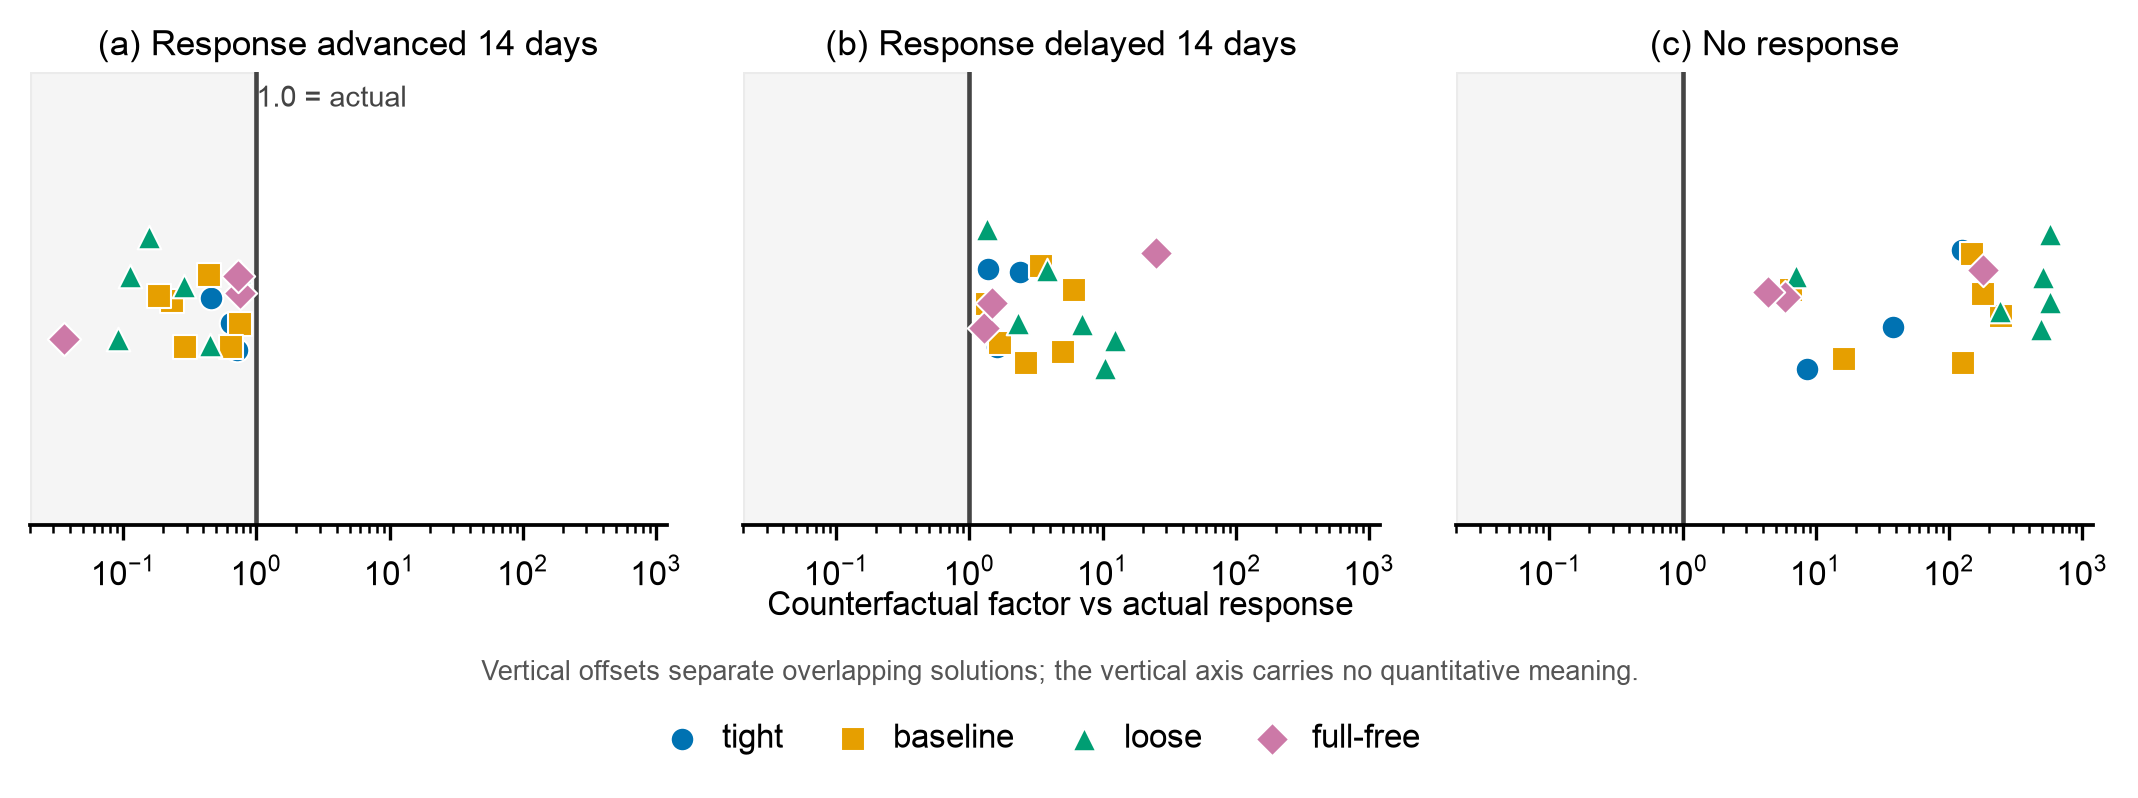
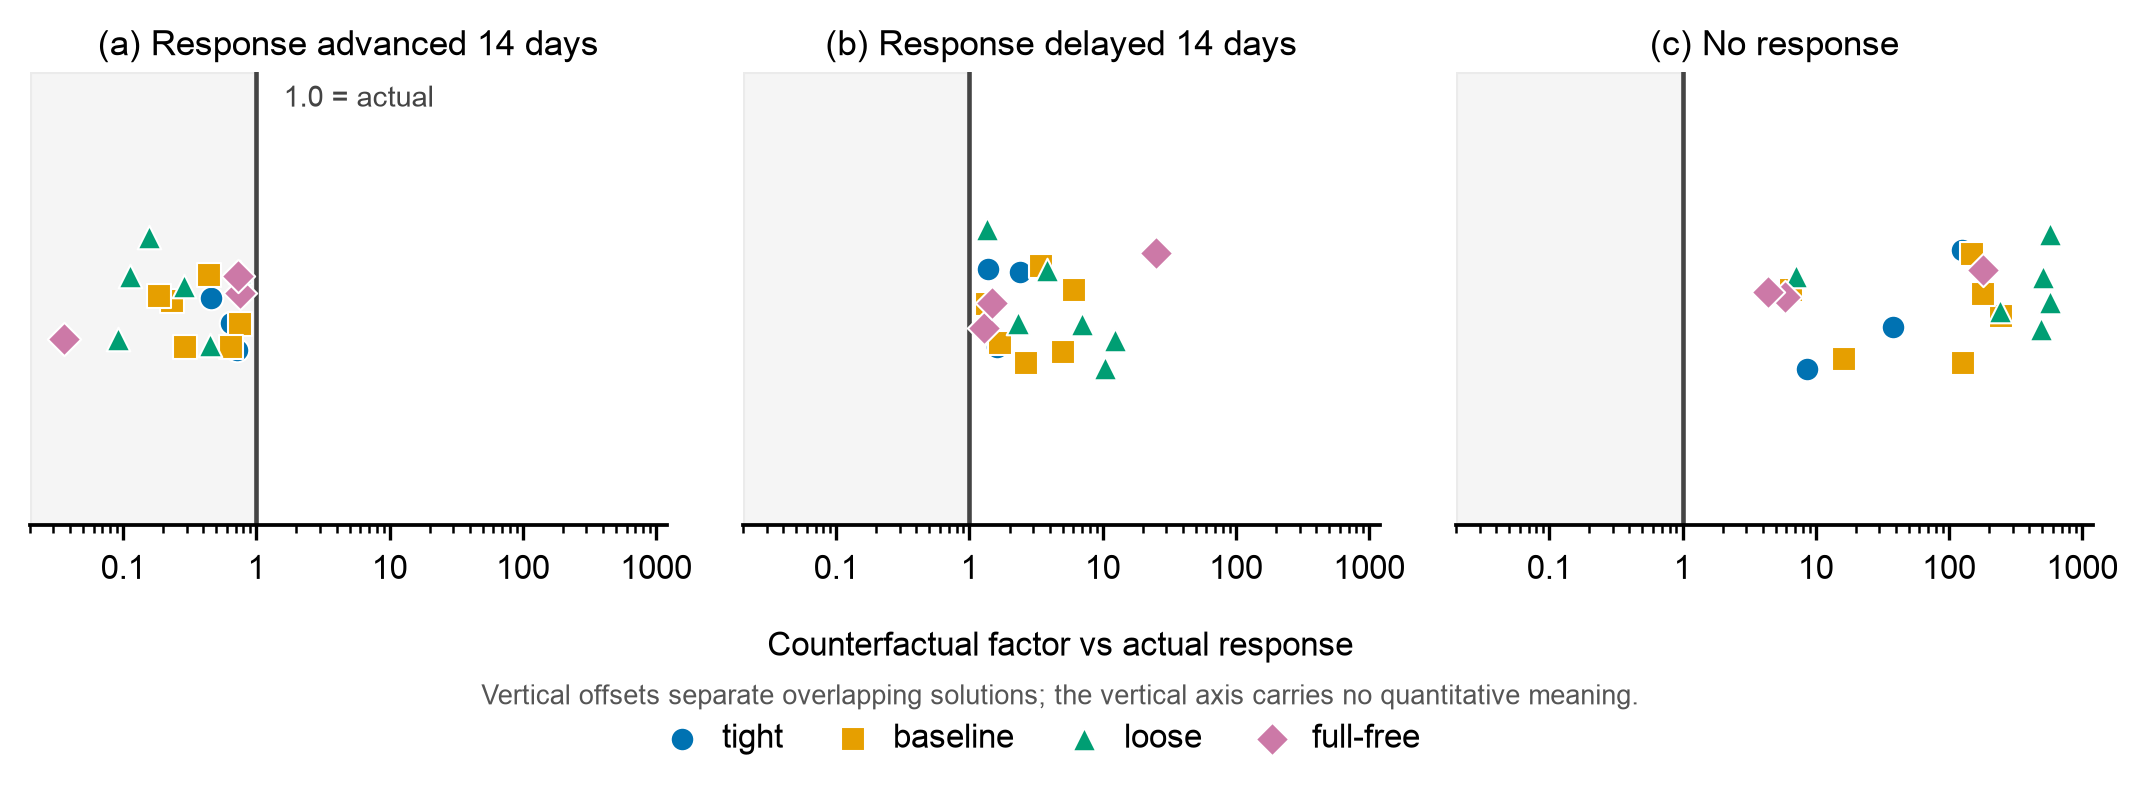
Update analysis package: figure formatting and documentation notes (V1.2.0)

diff --git a/code/foshan_eid_figures.py b/code/foshan_eid_figures.py
@@ -55,6 +55,7 @@ import pandas as pd
 import matplotlib
 matplotlib.use("Agg")
 import matplotlib.pyplot as plt
+import matplotlib.ticker as mticker
 
 BASE = os.path.dirname(os.path.abspath(__file__))
 ROOT = os.path.abspath(os.path.join(BASE, ".."))
@@ -175,7 +176,7 @@ def fig1(b):
     axb.set_xlabel("Achieved $R_0$ (next-generation matrix)")
     axb.set_ylabel("Post-saturation loss  (log scale)")
     axb.set_ylim(1e-2, 1e4)
-    axb.legend(frameon=False, fontsize=8, loc="lower right", handlelength=1.8)
+    # no legend here: panel (a) already carries the shared set legend
 
     for ax, lab in ((axa, "(a)"), (axb, "(b)")):
         ax.text(-0.02, 1.06, lab, transform=ax.transAxes, fontsize=10,
@@ -213,6 +214,9 @@ def fig2(used):
                        label=st["label"], zorder=3)
         ax.set_xscale("log")
         ax.set_xlim(XLO, XHI)
+        ax.set_xticks([0.1, 1.0, 10.0, 100.0, 1000.0])
+        ax.xaxis.set_major_formatter(
+            mticker.FuncFormatter(lambda v, p: "%g" % v))
         ax.axvspan(XLO, 1.0, color="#000000", alpha=0.04, zorder=0)
         ax.axvline(1.0, color="#444444", ls="-", lw=1.1, zorder=1)
         ax.set_ylim(-0.5, 0.5)
@@ -223,17 +227,17 @@ def fig2(used):
         ax.spines["left"].set_visible(False)
         ax.tick_params(labelsize=8)
 
-    axes[0].text(1.0, 0.44, "1.0 = actual", fontsize=7, ha="left",
+    axes[0].text(1.6, 0.44, "1.0 = actual", fontsize=7, ha="left",
                  va="center", color="#444444")
     # single shared x-label (repeating it per panel would overlap)
-    fig.text(0.512, 0.20, "Counterfactual factor vs actual response",
+    fig.text(0.512, 0.15, "Counterfactual factor vs actual response",
              ha="center", va="center", fontsize=8)
     handles, labels = axes[0].get_legend_handles_labels()
     fig.legend(handles, labels, frameon=False, fontsize=8, ncol=4,
                loc="lower center", bbox_to_anchor=(0.5, -0.02),
                handletextpad=0.2, columnspacing=1.1)
     # disclose the vertical-axis semantics: the offsets are pure de-overlap
-    fig.text(0.512, 0.118,
+    fig.text(0.512, 0.088,
              "Vertical offsets separate overlapping solutions; the vertical "
              "axis carries no quantitative meaning.",
              ha="center", va="center", fontsize=6.4, color="#555555")
